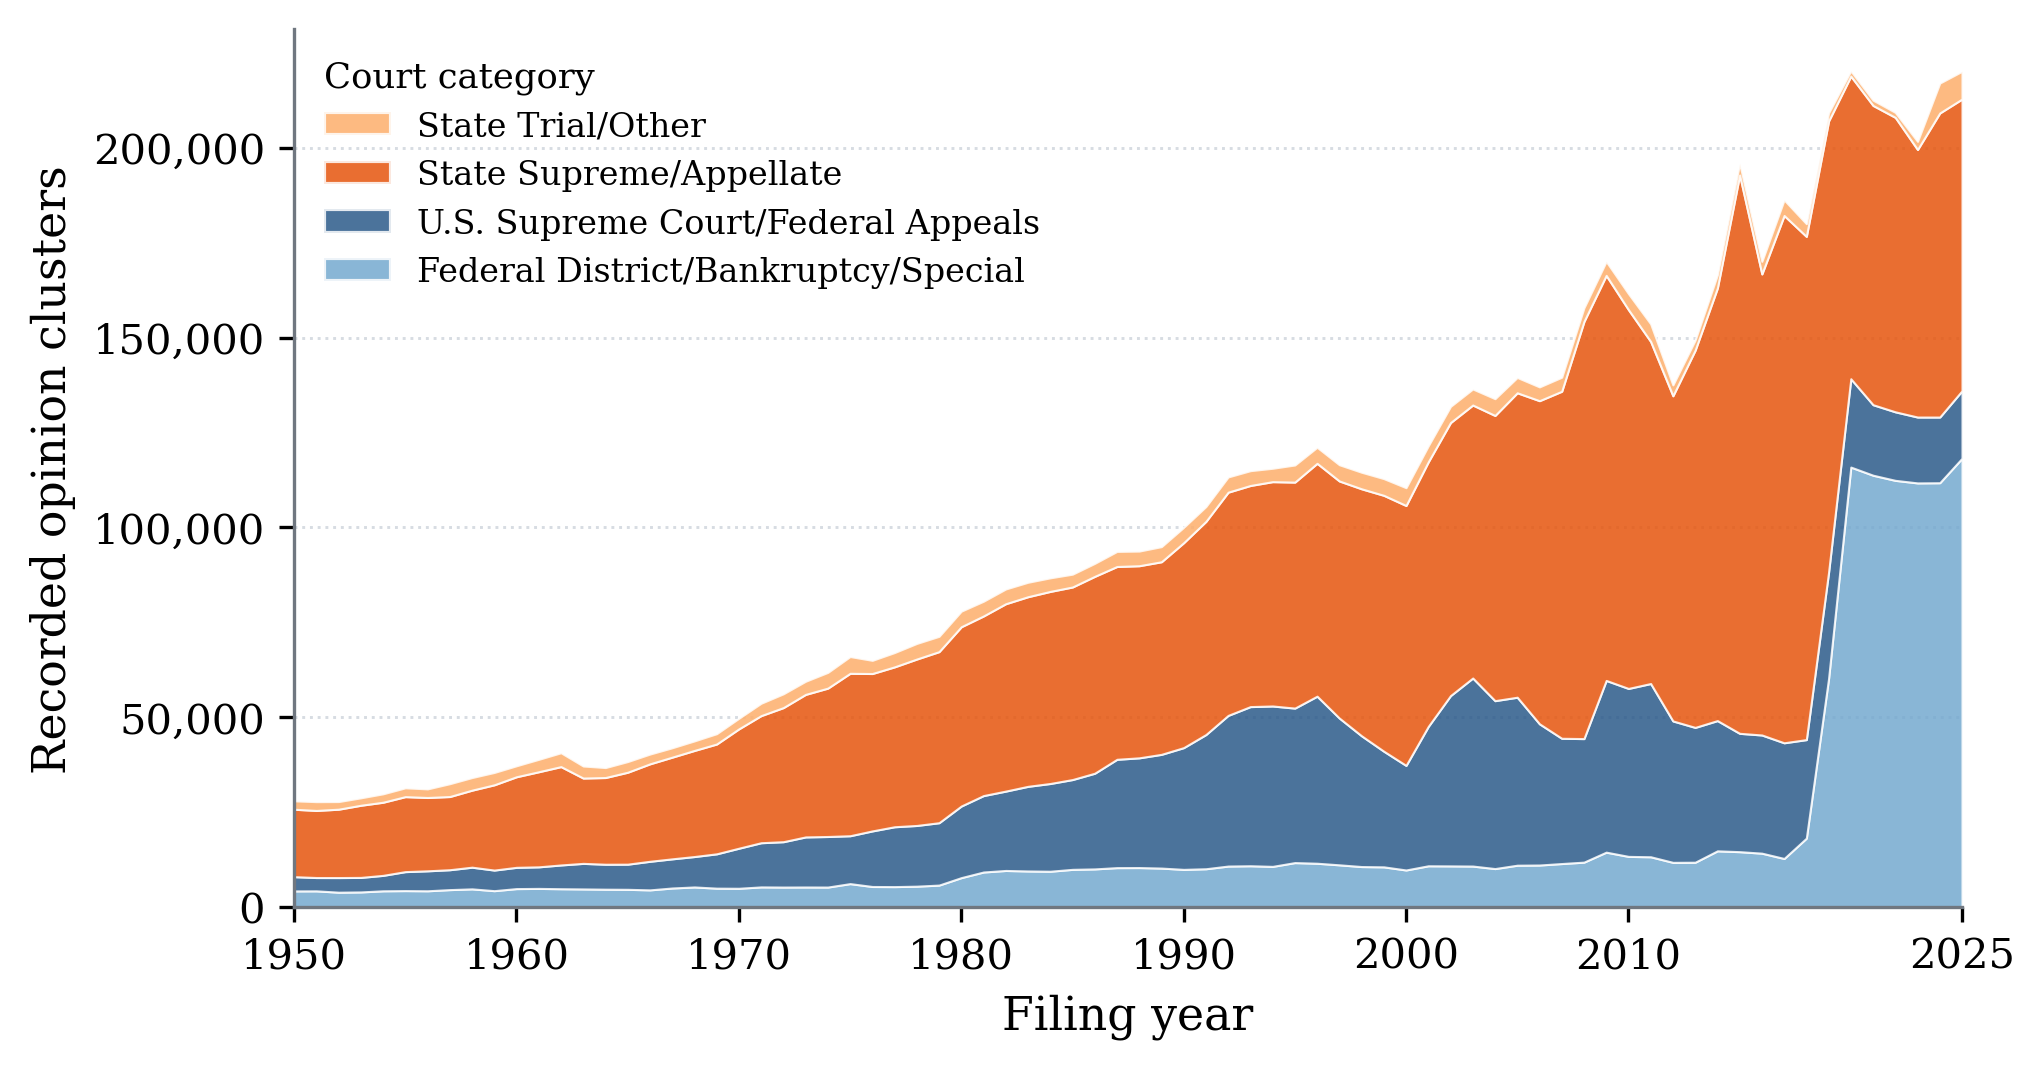
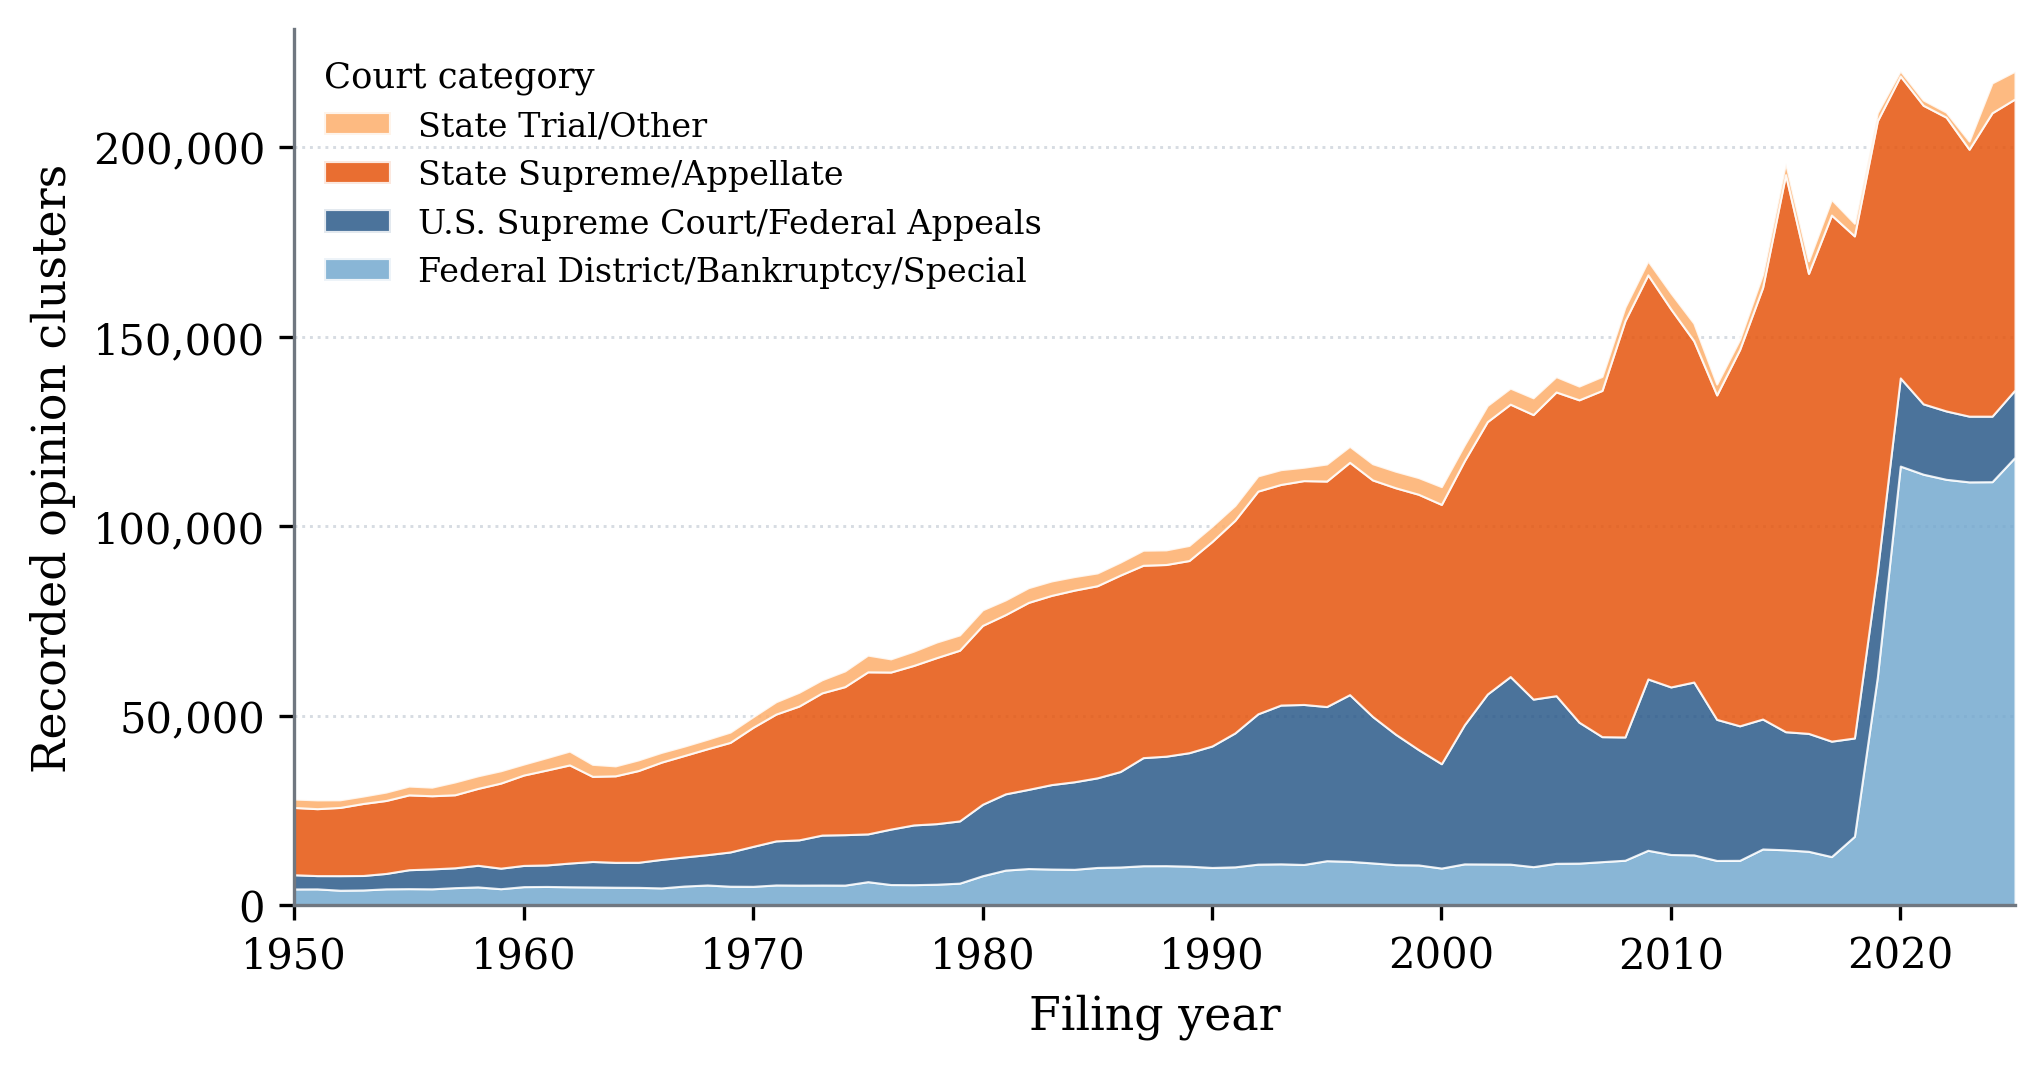
Label the opinion-cluster axis in decades

diff --git a/python/09_make_clusters_by_year_tier_plot.py b/python/09_make_clusters_by_year_tier_plot.py
@@ -149,7 +149,10 @@ def make_figure(pivot: pd.DataFrame) -> None:
     ax.set_ylabel("Recorded opinion clusters")
     ax.set_xlim(YEAR_MIN, YEAR_MAX)
     ax.set_ylim(bottom=0)
-    ax.set_xticks(list(range(YEAR_MIN, 2011, 10)) + [LAST_COMPLETE_YEAR])
+    # Decades only, so the spacing stays even. The series ends with the last
+    # complete year; the caption states that, and an extra tick there would
+    # read as a decade boundary.
+    ax.set_xticks(list(range(YEAR_MIN, 2021, 10)))
     ax.yaxis.set_major_formatter(mticker.FuncFormatter(lambda x, _: f"{int(x):,}"))
     ax.grid(axis="y", color="#d7dce2", linestyle=":", linewidth=0.7)
     ax.set_axisbelow(True)
